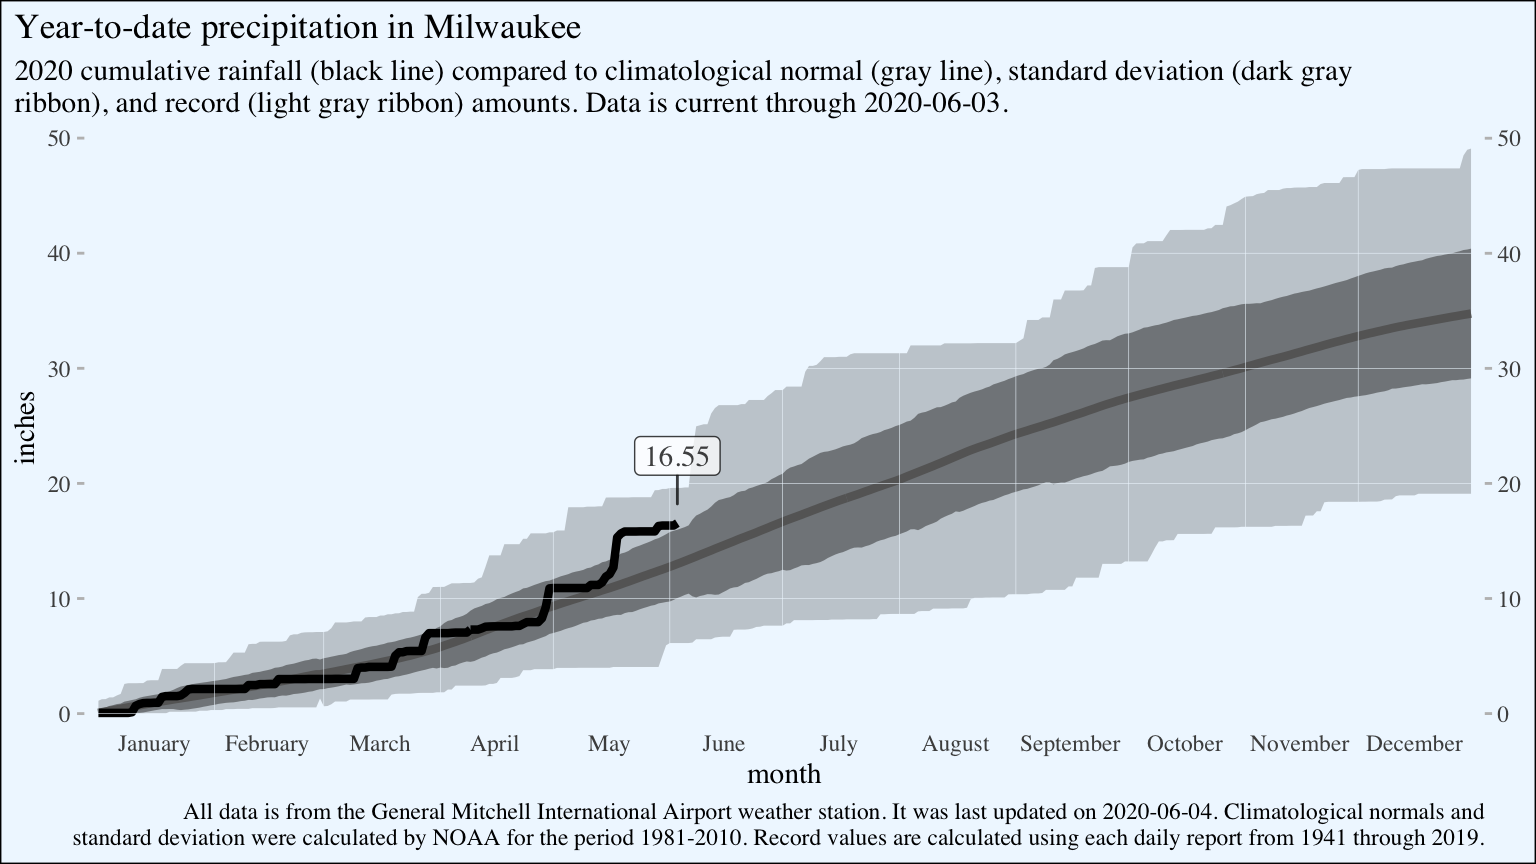
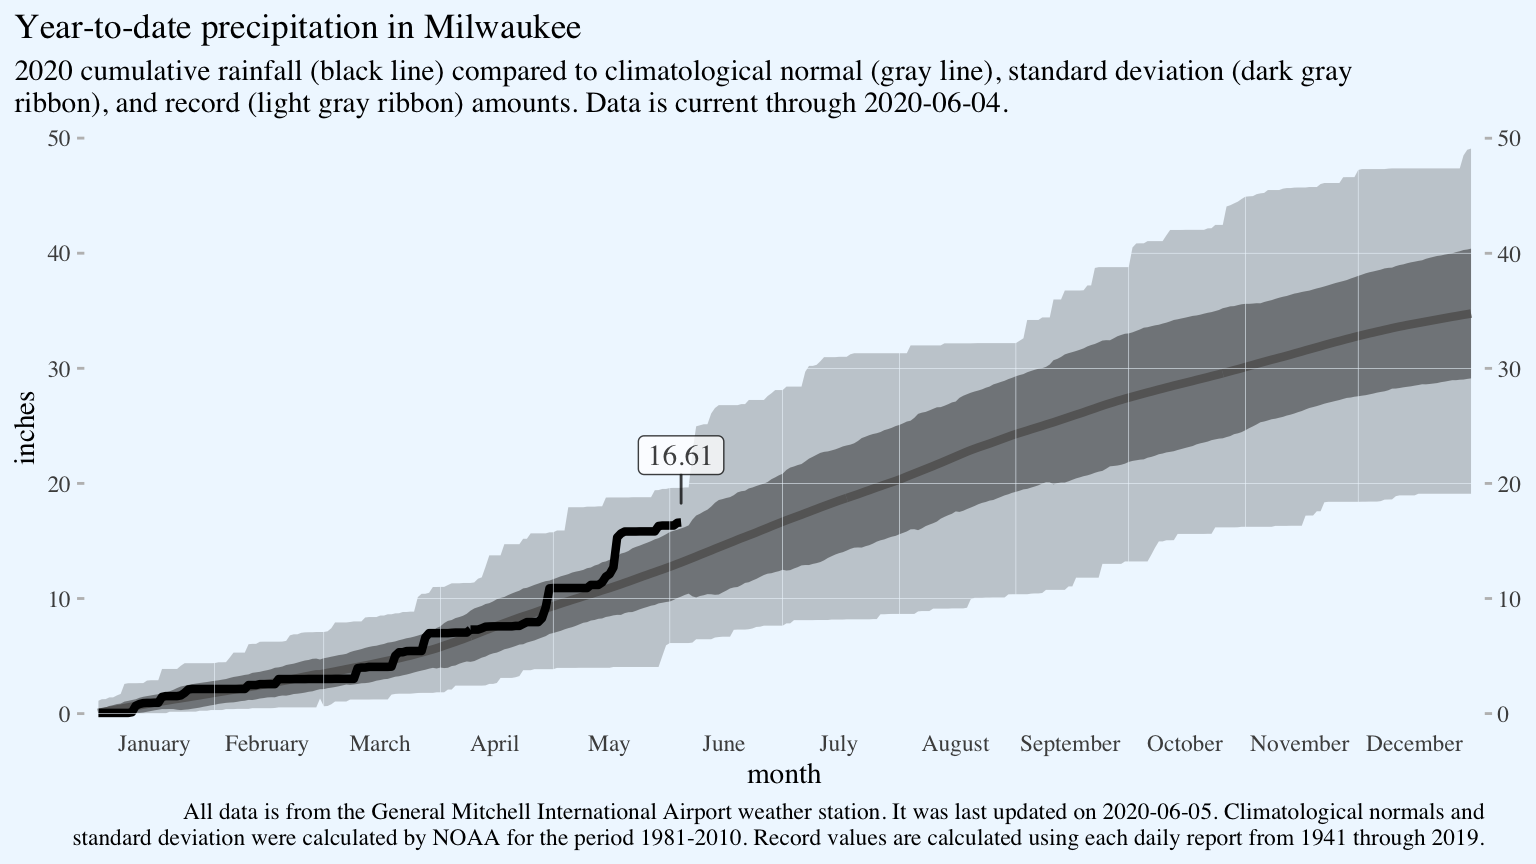
update weather

diff --git a/content/MilwaukeeWeather.html b/content/MilwaukeeWeather.html
@@ -7,7 +7,7 @@ output: html_document
 
 
 
-<p>The National Oceanic and Atmospheric Association weather station at General Mitchell International Airport hasn’t missed a daily weather report since 1941. These graphs show 2020 cumulative preciptiation, daily high temperature, and daily low compared to the past 79 years of weather reports at General Mitchell. The graphs show 2020 weather data through 2020-06-03. The code was last run on 2020-06-04.</p>
+<p>The National Oceanic and Atmospheric Association weather station at General Mitchell International Airport hasn’t missed a daily weather report since 1941. These graphs show 2020 cumulative preciptiation, daily high temperature, and daily low compared to the past 79 years of weather reports at General Mitchell. The graphs show 2020 weather data through 2020-06-04. The code was last run on 2020-06-05.</p>
 <p>Climatological normals were calculated by NOAA over the period 1981-2010. The record values presented in these graphs are simply the records recorded from 1941 through 2019 at this specific weather station. They are not necessarily the same as NOAA’s official daily records for Milwaukee, which combine multiple weather stations and cover a longer period of time. Those are <a href="https://www.weather.gov/mkx/normal-records-mke_msn">available here</a>.</p>
 <p><img src="/MilwaukeeWeather_files/figure-html/unnamed-chunk-1-1.png" width="768" style="display: block; margin: auto;" /></p>
 <p><img src="/MilwaukeeWeather_files/figure-html/unnamed-chunk-2-1.png" width="768" style="display: block; margin: auto;" /></p>
